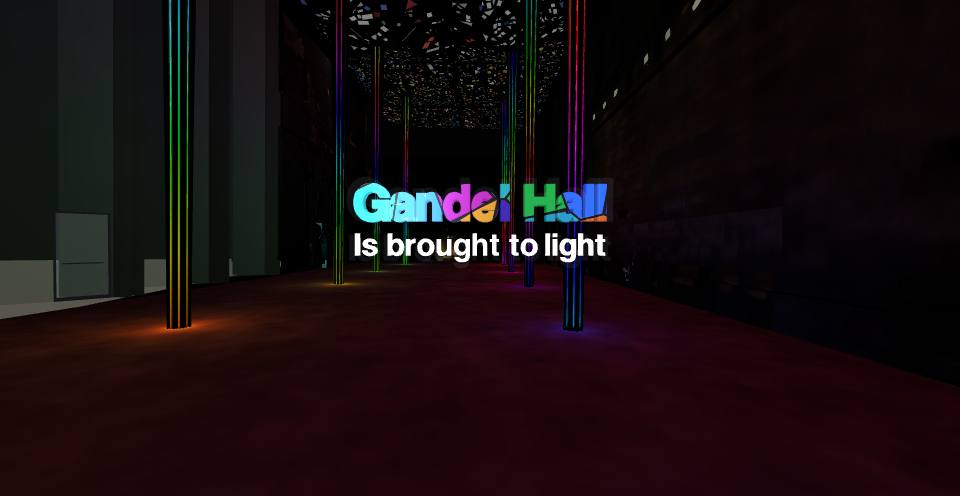
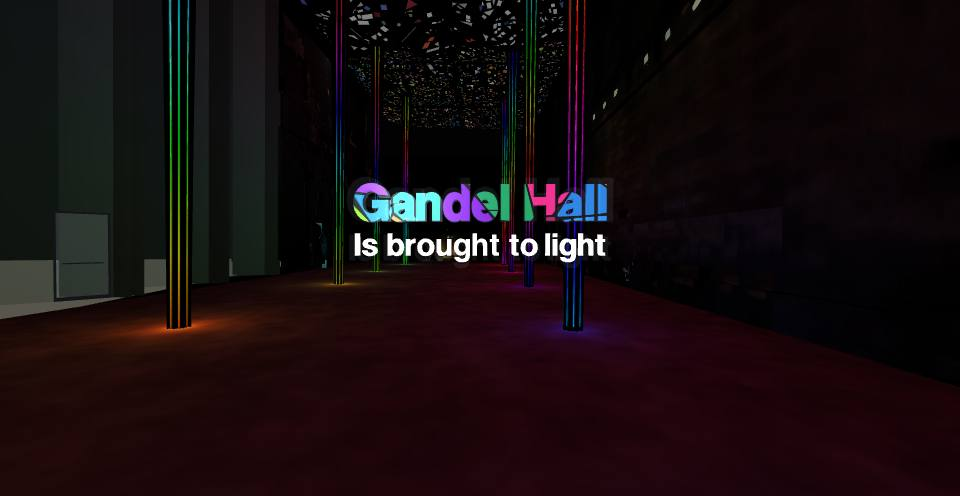
The GANDEL HALL glass, a new generation (Lloyd, shot 1 V6): the panes fall differently (seeds offset), six glass colours instead of every hue (ruby, amber, gold, emerald, cobalt, violet), and lead along the letter's own edge (the bevel and sides go dark) so the outline of every letter reads on shot 

Changed region(s): [[0.3438, 0.3629, 0.6562, 0.4536]]

diff --git a/index.html b/index.html
@@ -3339,18 +3339,22 @@ let titles=null, titleGlint=null, titleShimmer=null, titleGlass=null; const titl
 function makeGlassMat(noDepth){ return new THREE.ShaderMaterial({uniforms:{t:{value:0},op:{value:1},cell:{value:0.42}},transparent:true,depthWrite:false,depthTest:!noDepth,
    vertexShader:`varying vec3 vP; varying vec3 vN; void main(){ vP=position; vN=normal; gl_Position=projectionMatrix*modelViewMatrix*vec4(position,1.0); }`,
    fragmentShader:`uniform float t; uniform float op; uniform float cell; varying vec3 vP; varying vec3 vN;
-    vec2 h2(vec2 q){ return fract(sin(vec2(dot(q,vec2(127.1,311.7)),dot(q,vec2(269.5,183.3))))*43758.5453); }
+    // (Lloyd, V6) a new generation of the pattern: the seeds offset, so the panes fall differently
+    vec2 h2(vec2 q){ q+=vec2(17.3,9.1); return fract(sin(vec2(dot(q,vec2(127.1,311.7)),dot(q,vec2(269.5,183.3))))*43758.5453); }
     vec3 hsv(float h,float s,float v){ vec3 k=vec3(1.0,2.0/3.0,1.0/3.0); vec3 p=abs(fract(vec3(h)+k)*6.0-3.0); return v*mix(vec3(1.0),clamp(p-1.0,0.0,1.0),s); }
     void main(){
      vec2 q=vP.xy/cell; vec2 g=floor(q), f=fract(q); float d1=9.0, d2=9.0; vec2 id=vec2(0.0);
      for(int y=-1;y<=1;y++)for(int x=-1;x<=1;x++){ vec2 o=vec2(float(x),float(y)); vec2 r=o+h2(g+o)-f; float d=dot(r,r); if(d<d1){ d2=d1; d1=d; id=g+o; } else if(d<d2){ d2=d; } }
      float edge=sqrt(d2)-sqrt(d1);
      float lead=smoothstep(0.025,0.07,edge);                      // 0 on the lead line, 1 in the pane
-     vec3 c=hsv(fract(h2(id).x+t*0.01),0.85,1.0);
+     // (Lloyd, V6) six glass colours, not every hue: ruby, amber, gold, emerald, cobalt, violet
+     vec3 c=hsv(fract(floor(h2(id).x*6.0)/6.0+0.98+t*0.01),0.85,1.0);
      float px=(id.x+h2(id).x)*cell;                                 // the pane's seed: one flat colour per pane (very low poly, Lloyd)
      float lit=0.55+0.45*sin(px*1.4-t*0.9+h2(id).y*2.0);            // the light behind, sweeping pane by pane
      float side=1.0-0.35*(1.0-abs(vN.z));                          // the bevel and sides a touch darker
      vec3 col=mix(vec3(0.05,0.04,0.05),c*(0.55+0.45*lit),lead)*side;
+     // (Lloyd, V6) lead along the letter's own edge too (the bevel and sides), so the outline reads
+     col=mix(col,vec3(0.06,0.05,0.06),1.0-smoothstep(0.55,0.85,abs(vN.z)));
      gl_FragColor=vec4(col,op); }`});; }
 // a title: rows split on ' / ' (top row first); a row wrapped in *...* is set in stained glass,
 // a Voronoi of coloured panes in dark lead with the object's rainbow glint crossing it (Lloyd, shot 1: "Gandel Hall"
